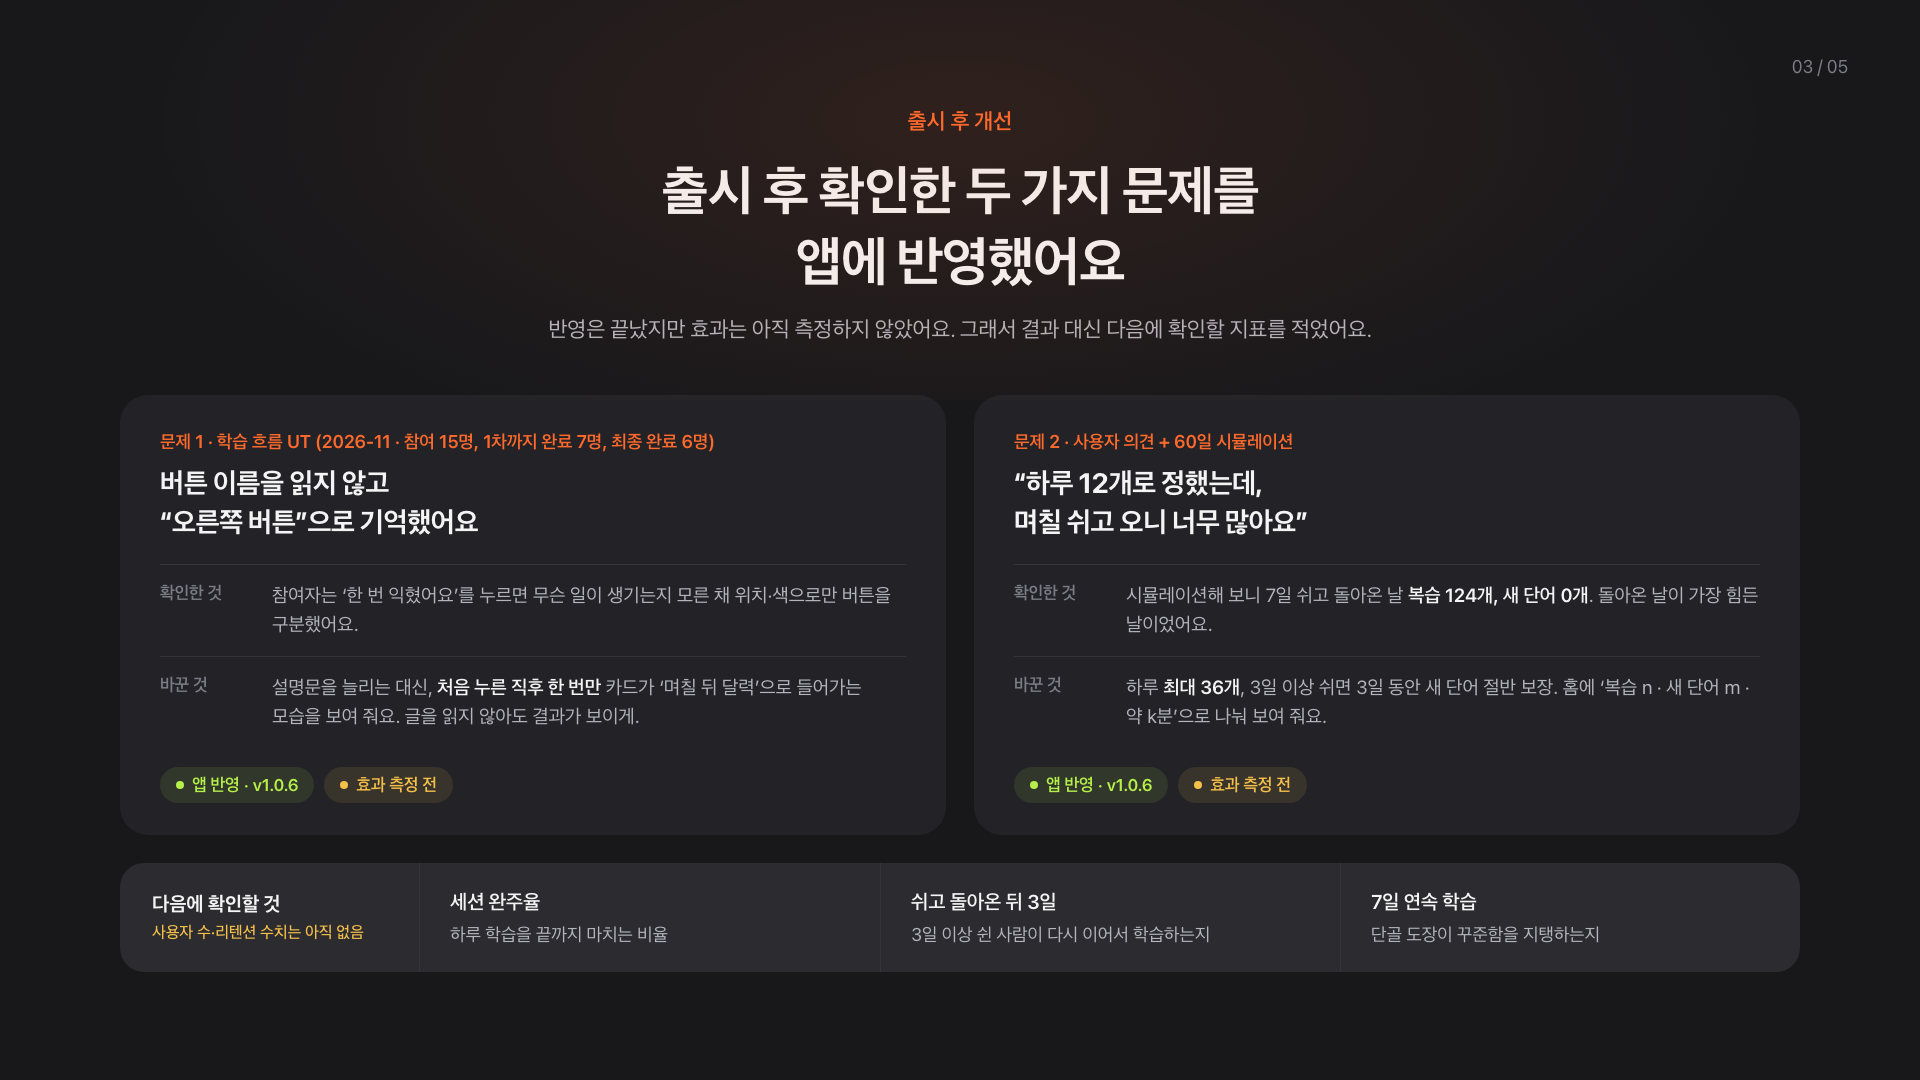
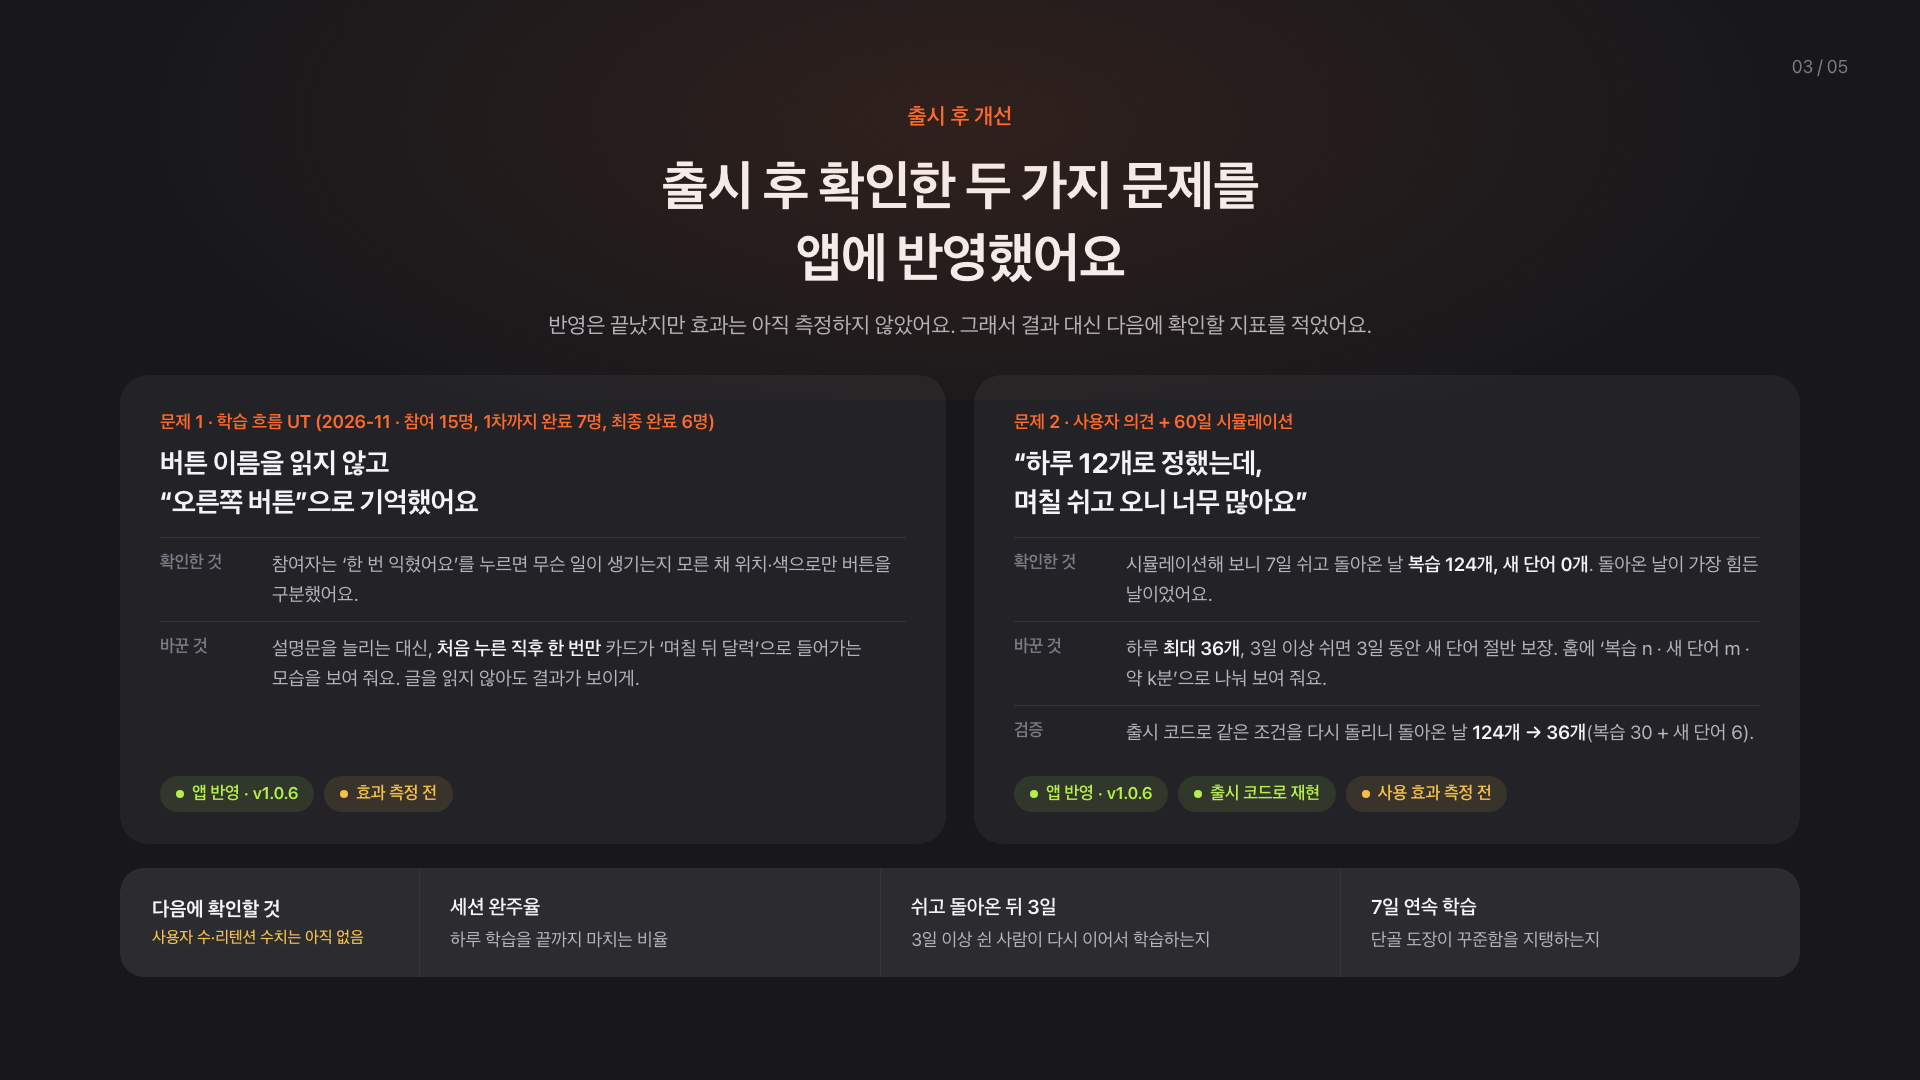
portfolio: 3장 문제 2에 출시 코드 재현 결과(돌아온 날 124 → 36) 추가, 3장 간격 조정

diff --git a/portfolio/onikan-deck-2026-11.html b/portfolio/onikan-deck-2026-11.html
@@ -112,17 +112,17 @@
   .s2 .why { margin-top: 16px; padding-top: 16px; border-top: 1px solid var(--line); font-size: 17px; line-height: 1.55; color: var(--mute); }
 
   /* ───────── 3. 출시 후 개선 ───────── */
-  .s3 .head { margin-bottom: 48px; }
+  .s3 .head { margin-bottom: 32px; }
   .s3 .head h1 { margin: 18px 0 16px; }
   .s3 .cases { display: grid; grid-template-columns: 1fr 1fr; gap: 28px; }
   .s3 .case { background: var(--panel); border-radius: 28px; padding: 36px 40px 32px; display: flex; flex-direction: column; }
   .s3 .case .tag { font-size: 18px; font-weight: 600; color: var(--orange); }
-  .s3 .case h3 { font-size: 28px; line-height: 1.4; font-weight: 700; margin: 10px 0 22px; letter-spacing: -0.02em; }
-  .s3 .row { display: grid; grid-template-columns: 96px 1fr; gap: 16px; padding: 16px 0; border-top: 1px solid var(--line); }
+  .s3 .case h3 { font-size: 28px; line-height: 1.4; font-weight: 700; margin: 10px 0 16px; letter-spacing: -0.02em; }
+  .s3 .row { display: grid; grid-template-columns: 96px 1fr; gap: 16px; padding: 12px 0; border-top: 1px solid var(--line); }
   .s3 .row .k { font-size: 17px; font-weight: 600; color: var(--mute); padding-top: 2px; }
   .s3 .row .v { font-size: 19px; line-height: 1.55; color: var(--body); }
-  .s3 .status { display: flex; gap: 10px; margin-top: auto; padding-top: 20px; }
-  .s3 .next { margin-top: 28px; display: grid; grid-template-columns: 300px 1fr; gap: 0; background: var(--panel-2); border-radius: 24px; overflow: hidden; }
+  .s3 .status { display: flex; gap: 10px; margin-top: auto; padding-top: 16px; }
+  .s3 .next { flex-shrink: 0; margin-top: 24px; display: grid; grid-template-columns: 300px 1fr; gap: 0; background: var(--panel-2); border-radius: 24px; overflow: hidden; }
   .s3 .next .k { padding: 26px 32px; font-size: 20px; font-weight: 700; display: flex; flex-direction: column; justify-content: center; gap: 6px; border-right: 1px solid var(--line); }
   .s3 .next .k span { font-size: 16px; font-weight: 500; color: var(--amber); }
   .s3 .next ul { list-style: none; display: grid; grid-template-columns: repeat(3, 1fr); }
@@ -293,7 +293,8 @@
       <h3>“하루 12개로 정했는데,<br>며칠 쉬고 오니 너무 많아요”</h3>
       <div class="row"><div class="k">확인한 것</div><div class="v">시뮬레이션해 보니 7일 쉬고 돌아온 날 <b>복습 124개, 새 단어 0개</b>. 돌아온 날이 가장 힘든 날이었어요.</div></div>
       <div class="row"><div class="k">바꾼 것</div><div class="v">하루 <b>최대 36개</b>, 3일 이상 쉬면 3일 동안 새 단어 절반 보장. 홈에 ‘복습 n · 새 단어 m · 약 k분’으로 나눠 보여 줘요.</div></div>
-      <div class="status"><span class="chip done"><i></i>앱 반영 · v1.0.6</span><span class="chip wait"><i></i>효과 측정 전</span></div>
+      <div class="row"><div class="k">검증</div><div class="v">출시 코드로 같은 조건을 다시 돌리니 돌아온 날 <b>124개 → 36개</b>(복습 30 + 새 단어 6).</div></div>
+      <div class="status"><span class="chip done"><i></i>앱 반영 · v1.0.6</span><span class="chip done"><i></i>출시 코드로 재현</span><span class="chip wait"><i></i>사용 효과 측정 전</span></div>
     </div>
   </div>
 
